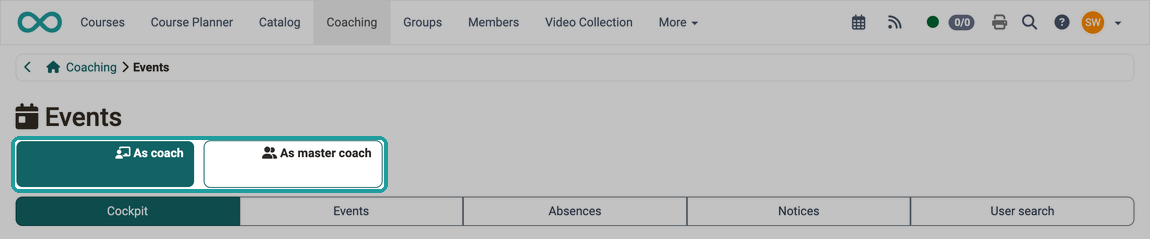
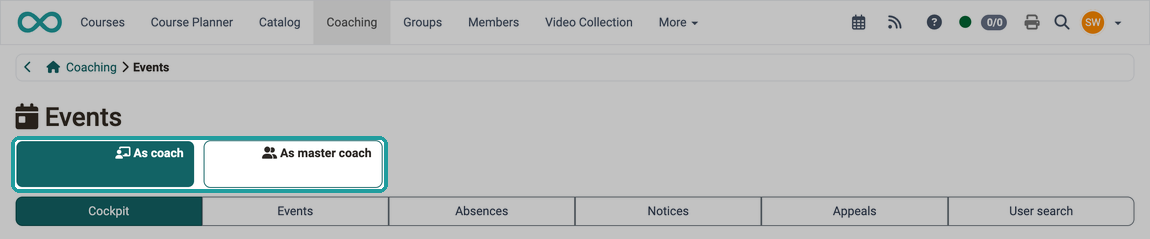
OODOC-566 (EN), Tab Rekurse im Coaching englisch bebildert.

diff --git a/sites/manual_user/docs/area_modules/Coaching_Events_Absences.md b/sites/manual_user/docs/area_modules/Coaching_Events_Absences.md
@@ -126,7 +126,7 @@ In the **search field**, you can search for users, coaches and events.
 
 Filter the list, for example, by the **status** "Pending", "Rejected" or "Approved". (You can select one status, two of them or all.)
 
-![Search field, status filter Pending, Rejected, Approved and date range above the appeal list, in the tab Appeals.](assets/coaching_events_absences_tab_appeals_v1_de.png){ class="shadow lightbox" }
+![Search field, status filter Pending, Rejected, Approved and date range above the appeal list with one pending appeal, in the tab Appeals.](assets/coaching_events_absences_tab_appeals_v1_en.png){ class="shadow lightbox" }
 
 [To the top of the page ^](#events)
 
